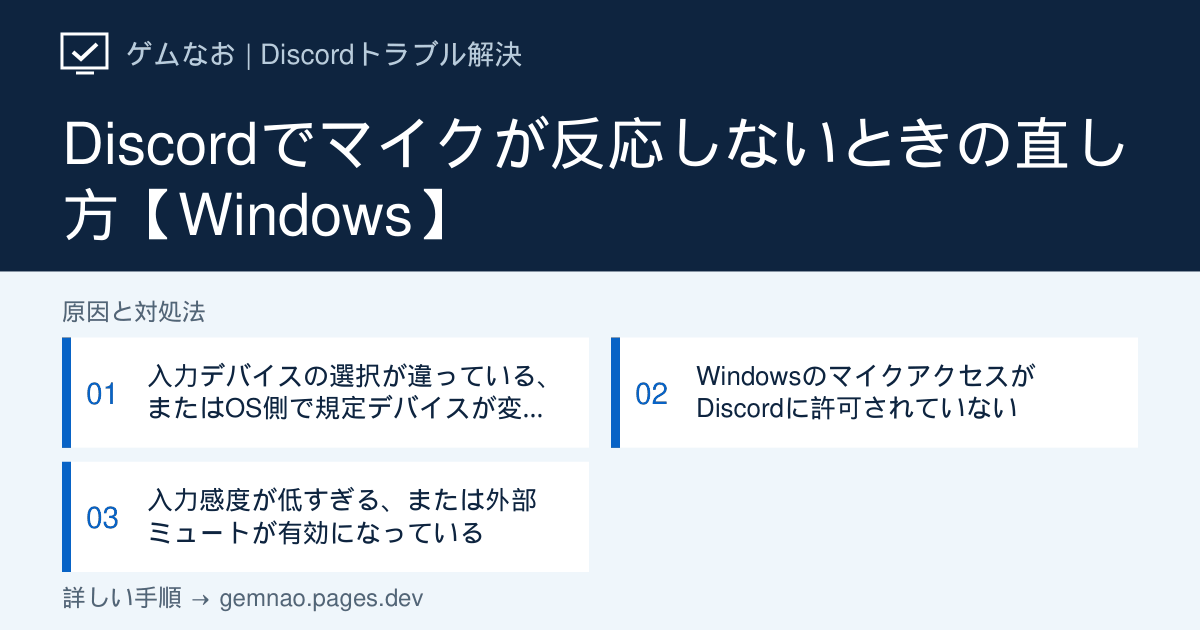
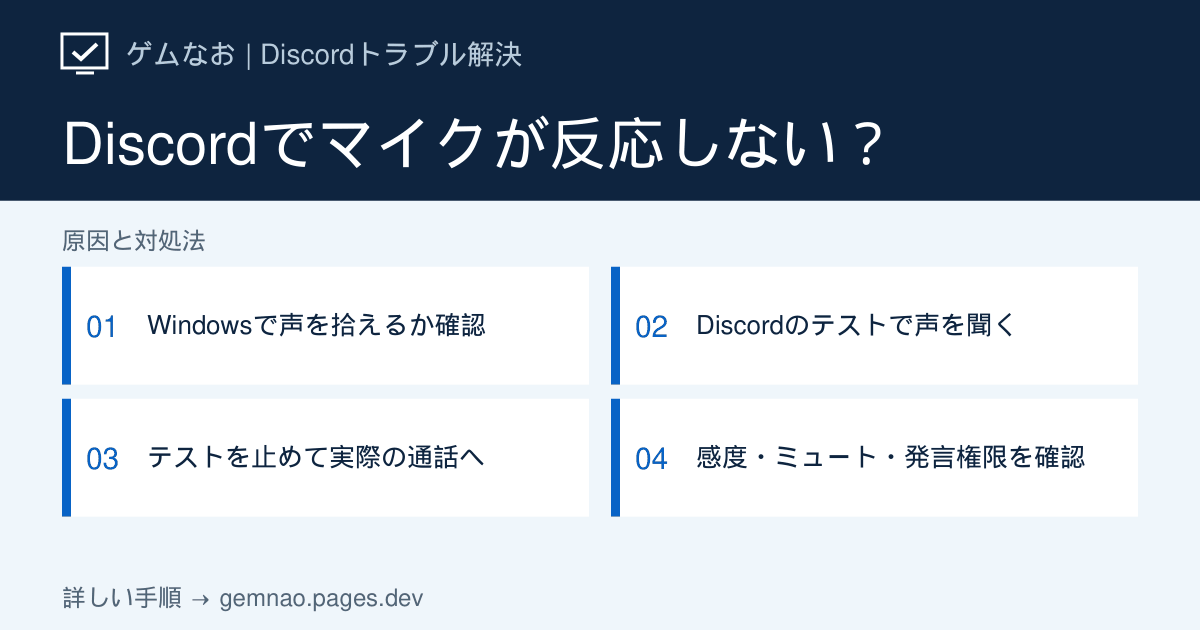
Improve Discord microphone guide with Windows tests and call diagnosis

diff --git a/lib/discord-articles.ts b/lib/discord-articles.ts
@@ -204,75 +204,102 @@ const existingDiscordArticles: DiscordArticle[] = [
   {
     slug: 'mic-not-working',
     category: 'audio',
-    title: 'Discordでマイクが反応しないときの直し方【Windows】',
+    title: 'Discordでマイクが反応しない・声が届かない時の直し方【Windows】',
     shortTitle: 'マイクが反応しない',
-    seoTitle: 'Discordでマイクが反応しないときの直し方【Windows】',
-    metaDescription:
-      'Discordで自分の声が相手に届かない、マイクテストで反応しない時の対処法です。入力デバイスの選び直し、Windowsのマイク権限、入力感度を順に確認します。',
-    symptom:
-      '通話中に「聞こえない」と言われる、設定画面のマイクテストでバーが反応しない、マイクアイコンにミュート表示がないのに声が届かない場合の手順です。',
-    target: 'Windows版 Discordデスクトップアプリ',
-    conclusion:
-      '「音声・ビデオ」設定で入力デバイスを選び直してマイクテストを行い、次にWindowsのマイクアクセス許可、最後に入力感度とミュート状態を確認します。',
+    seoTitle: 'Discordでマイクが反応しない・声が届かない原因と対処法',
+    metaDescription: 'Windowsの入力テスト・Discordのマイクテスト・実際の通話を比べ、声が届かない原因を判定。入力デバイス、マイク権限、入力感度、プッシュトゥトーク、サーバーミュートを具体的な操作と確認結果で解説します。',
+    symptom: 'Discordでマイクが反応しない、マイクテストでは声が返るのに相手に届かない、特定サーバーやゲーム中だけ話せない場合の確認手順です。',
+    target: 'Windows 11／10版Discordデスクトップアプリ。ブラウザ版との比較も掲載',
+    conclusion: 'Windowsの入力テスト→Discordのマイクテスト→実際の通話の順に、同じマイクで確認します。Windowsでも反応しなければ接続・機器・権限、Discordだけ無反応なら入力デバイス、テストは成功するなら入力モード・ミュート・発言権限を確認します。マイクテストは停止してから通話へ戻ってください。',
     quickFixes: [
-      'ユーザー設定の「音声・ビデオ」で入力デバイスを選び直し、マイクテストで反応を確認する',
-      'Windowsの設定でDiscordのマイクアクセスが許可されているか確認する',
-      'Discordを完全に終了し、ヘッドセットを挿し直してから再起動する',
+      'マイク本体のミュートを解除し、Windowsのサウンド設定で声に反応するか確認する',
+      'Discordの「音声・ビデオ」で同じマイクを名前で選び、マイクテストで自分の声を聞く',
+      'テストを停止して通話へ戻り、相手に同じ短い文を聞いてもらう',
+    ],
+    diagnosisTitle: 'どこまで声が届く？ Windows・Discord・通話の判定表',
+    diagnosisIntro: '比較中は同じマイク・口との距離・短い文を使います。例として「マイクの確認です。1、2、3」と話し、設定を1つ変えるごとに再確認してください。表示バーが動くことと、相手が声を聞けることは別の確認です。',
+    showStatusCheck: false,
+    diagnosis: [
+      { symptom: 'Windowsの入力一覧にマイクがない／話しても反応しない', check: '接続と本体ミュート、選択した入力機器を確認。別ポート・別マイクで比較', causeIndex: 1 },
+      { symptom: 'Windowsでは入力あり、Discordだけ無反応', check: 'デスクトップアプリのマイク許可と、Discordで選んだ入力機器を確認', causeIndex: 2 },
+      { symptom: 'Discordのバーは動くがテストの声が聞こえない', check: 'テスト音声の出力先も確認。マイク故障と決めつけない', causeIndex: 2 },
+      { symptom: 'テストで声は返るが、通話相手には届かない', check: 'テストを停止し、自分のミュートと入力モードを確認', causeIndex: 3 },
+      { symptom: '小さな声や話し始めだけ届かない', check: '無言時と小声の入力レベルを比べ、感度の境界を調整', causeIndex: 3 },
+      { symptom: 'DM通話では話せるが、特定サーバーだけ無音', check: 'サーバーミュート・発言権限を管理者へ確認', causeIndex: 4 },
+      { symptom: '一人だけ自分の声が聞こえないと言う', check: '別の参加者にも確認し、その相手の個別音量・ミュートを調べる', causeIndex: 4 },
+      { symptom: 'ゲーム中だけプッシュトゥトークが効かない', check: 'Discordを手前にした時と比較。キー競合やゲームの権限を確認', causeIndex: 3 },
     ],
     causes: [
       {
-        title:
-          '入力デバイスの選択が違っている、またはOS側で規定デバイスが変わった',
-        description:
-          '別のマイクを接続したりWindows更新後に、Discordが選んでいる入力デバイスが実際に使いたい機器と違っていることがあります。',
+        title: 'Windowsで同じマイクに入力があるか確認する',
+        description: '最初にPCが声を受け取っているか調べます。Discordの設定を変える前に確認すると、調べる範囲を絞れます。',
         actions: [
-          'Discordの歯車アイコンからユーザー設定を開く',
-          '「音声・ビデオ」タブを開く',
-          '「入力デバイス」で使用中のマイクを選び直す',
-          '「マイクをテストする」ボタンを押し、話した時に入力レベルのバーが動くか確認する',
+          'ヘッドセット・マイク本体のミュートスイッチを解除する。USBや音声端子を挿し直し、着脱式のマイクも根元まで接続されているか確認する',
+          'Windows 11は「設定」→「システム」→「サウンド」→「入力」で使うマイクを選択する。「マイクのテスト」の開始を押し、短い文を話して停止する。録音サンプルの再生がある場合は声も確認する',
+          'Windows 10は「設定」→「システム」→「サウンド」→「入力」でマイクを選び、「マイクのテスト」のバーが話す時に動くか確認する',
+          '反応するなら機器名を控えてSTEP 2へ。無反応なら入力音量が0でないか確認し、USBハブを使っている場合はPCへの直挿し、可能なら別ポート・別マイクで比較する',
+          '一覧に機器がない場合は「オーディオ入力が見つからない」の関連記事へ。別マイクなら反応する場合は元の機器・接続側を、どちらも反応しない場合はSTEP 2の権限やメーカーのドライバー案内を確認する',
+        ],
+        note: 'Windowsでも無反応という結果だけでマイク故障とは断定できません。入力先の選択、ミュート、権限、接続も確認対象です。Bluetooth機器だけで起きる場合は、有線やUSBマイクとの比較が手掛かりになります。',
+      },
+      {
+        title: 'Windowsのマイク許可とDiscordの入出力をそろえる',
+        description: 'Windowsで反応したマイクをDiscordでも選びます。テストの再生が聞こえない場合は、入力だけでなく出力先も確認します。',
+        actions: [
+          'Windows 11は「設定」→「プライバシーとセキュリティ」→「マイク」、Windows 10は「設定」→「プライバシー」→「マイク」を開く',
+          '「マイクへのアクセス」と「デスクトップ アプリがマイクにアクセスできるようにする」をオンにする。通常のデスクトップ版Discordは、アプリ別スイッチの一覧に出ない場合がある',
+          'Discord左下の歯車→「音声・ビデオ」の音声設定を開く。「入力デバイス」はDefault任せにせず、STEP 1で反応したマイクを名前で選ぶ。入力音量が0でないことも確認する',
+          '「出力デバイス」に今使っているヘッドホンを指定し、「マイクテスト」の開始ボタンを押す。同じ文を話し、自分の声が返ってくるか確認する',
+          '入力表示だけ反応して再生が聞こえない場合は、ヘッドホンの音量や出力先を確認する。声が返るならテストを停止してSTEP 3へ。Windowsだけ成功するなら、設定変更後にDiscordを完全終了して開き直し、同じテストを行う',
+        ],
+        note: 'Discord公式によると、通話に参加したままマイクテストを行うと自動的にミュート・スピーカーミュートになります。テストを停止するまで通話相手と会話できません。テスト中に「届かない」と言われても、送信失敗とは判断しないでください。',
+      },
+      {
+        title: 'テストは成功する場合：ミュート・入力モード・感度を確認する',
+        description: '音声検出は話すと自動で送信し、プッシュトゥトークは指定キーを押している間に送信します。自動感度は入力モードそのものではなく、音声検出で使う調整機能です。',
+        actions: [
+          'マイクテストを停止し、通話に戻る。左下のマイク・ヘッドホンのアイコンに斜線がないか確認し、自分で設定したミュートを解除する',
+          '「音声・ビデオ」→「入力モード」を確認する。プッシュトゥトークなら、登録したキーを押したまま短い文を話す。キーを押した時だけ届けば、その動作は正常',
+          'キーを押さずに話したい場合は音声検出（Voice Activity）へ切り替える。自動感度で小声や語尾が切れる場合は、自動調整をオフにして手動で比べる',
+          '無言の時の入力レベルと、小さめの声で話した時の入力レベルを観察する。感度の境界を「無言の音は超えず、小声は超える」位置へ動かす。固定の数値を全員に当てはめない',
+          '例：無言の雑音が−60 dB付近、小声が−40 dB付近なら、境界を−50 dB付近から比較する。これは調整例であり推奨固定値ではない。実際の通話で語尾まで届くか相手に確認し、雑音も常時送られるなら調整し直す',
+          'ゲーム中だけキーが効かない場合は、Discordを手前にした時にも同じキーで話せるか比較する。ゲーム操作との重複を見直し、管理者権限のゲームでだけ起きる場合は「システムヘルパー」記事へ進む',
+        ],
+        note: '入力感度は「どの音から送信を始めるか」の境界で、声そのものを大きくする設定ではありません。声は届くが小さい場合は「マイク・声が小さい」、途中で切れる場合は「音声・マイクが途切れる」の記事を参照してください。',
+      },
+      {
+        title: '通話相手・サーバーを変え、権限と受信側を切り分ける',
+        description: '自分のテストが成功している場合、同じ設定のまま相手や通話先を変えて比べます。設定を何度もリセットする前に、届かない範囲を確かめてください。',
+        actions: [
+          '知人とのDM通話で短い文を話し、相手に聞こえるか確認する。次に問題のサーバーのボイスチャンネルで同じ文を話す',
+          'DMでは届くが特定チャンネルだけ届かない場合は、管理者にサーバーミュートの有無と、そのチャンネルで自分のロールに「発言」の権限があるかを確認してもらう。参加できることと発言できることは別',
+          '一人だけ聞こえない場合は、可能ならもう一人にも確認する。他の人には届くなら、聞こえない相手に自分のユーザーを右クリックして個別ミュート・ユーザー音量を確認してもらう',
+          '全員に届かず、接続中のままになる・通話から退出する場合は、入力感度ではなく接続側も確認する。RTC接続中などの表示を控え、対応する関連記事へ進む',
         ],
       },
       {
-        title: 'WindowsのマイクアクセスがDiscordに許可されていない',
-        description:
-          'Windowsのプライバシー設定でマイクへのアクセスがオフになっていると、Discord側の設定は正しくても音が届きません。',
+        title: 'アプリだけ改善しない場合はブラウザ比較と音声設定のリセットへ',
+        description: 'ここまでの設定を確認してもアプリだけで失敗する場合の手順です。変更前の設定を控え、結果が変わったかを同じマイクで確認します。',
         actions: [
-          'Windowsの「設定」を開く',
-          '「プライバシーとセキュリティ」→「マイク」を開く',
-          '「マイクへのアクセス」がオンになっているか確認する',
-          '「デスクトップ アプリがマイクにアクセスできるようにする」をオンにする。デスクトップ版Discordは個別の許可一覧に出ない場合がある',
-          'Discordを再起動して反映させる',
-        ],
-      },
-      {
-        title: '入力感度が低すぎる、または外部ミュートが有効になっている',
-        description:
-          '入力モードが「感度に応じて自動的に判定」になっている場合、感度が低いと声を拾いません。ヘッドセット側の物理ミュートスイッチも見落としやすい原因です。',
-        actions: [
-          '「音声・ビデオ」の「入力モード」を確認する（自動感度／プッシュトゥトーク）',
-          '自動感度の場合は「自動的に感度を決定する」をオフにし、スライダーを手動で調整する',
-          'ヘッドセットやマイク本体に物理ミュートボタンがないか確認する',
-          '画面下部のマイクアイコンがミュートになっていないか確認する',
+          'アプリの通話を終了し、ブラウザでdiscord.com/appを開く。マイクの利用を許可し、同じ入力機器でマイクテストと短い通話を行う',
+          'ブラウザ版だけ成功する場合は、アプリの入力・出力デバイス、入力モード、感度、キー割り当てをメモまたは画像で残す',
+          'アプリを開き直して更新を反映させる。それでも改善しない場合は「音声・ビデオ」のデバッグ項目などにある音声・ビデオ設定のリセットを実行する。配置や表記はバージョンにより異なる',
+          'リセット後にマイクと出力機器を選び直し、まずテスト、その後テストを停止して実際の通話を確認する。改善しない場合は、元の設定をメモから戻し、比較結果をサポートへ伝える',
         ],
       },
     ],
-    ifNotFixed:
-      'ボイスレコーダーなど他のアプリでもマイクが反応しない場合は、Discordではなくマイク本体・ドライバー・OS側の問題です。Windowsのサウンド設定でマイクの音量とドライバーの状態を確認してください。Discord側だけの問題と分かっている場合は、「音声・ビデオ」設定の下部から音声設定をリセットし、再度デバイスを選び直してください。',
+    ifNotFixed: '相談時は「マイクの製品名・接続方法／Windows入力テスト／Discordテストの再生／DM通話／サーバー通話／ブラウザ版」の結果を○・×で整理します。例：Windows○、Discordテスト○、DM○、特定サーバー×なら、管理者へ発言権限を確認する材料になります。音声そのものやDM本文を公開する必要はありません。Windowsでも入力がない場合はPC・機器メーカー、Discordだけで再現する場合はDiscordサポートへ結果を伝えてください。',
     faqs: [
-      {
-        question: 'マイクテストのバーは動くのに、通話中だけ声が届きません',
-        answer:
-          '通話中の入力デバイスが設定画面と異なる可能性があります。通話に参加した状態で改めて「音声・ビデオ」設定を開き、入力デバイスの選択を確認してください。サーバー側でミュートにされていないかも確認してください。',
-      },
-      {
-        question: 'Bluetoothヘッドセットだけ反応しません',
-        answer:
-          'Bluetooth機器は通話用プロファイルへの切り替えが必要な場合があります。Windowsのサウンド設定でマイクとして認識されているか確認し、それでも反応しない場合は有線接続やUSBマイクで切り分けてください。',
-      },
+      { question: 'マイクテストでは聞こえるのに、相手に声が届きません', answer: 'まずテストを停止してください。テスト中は通話が自動的にミュートされます。停止後も届かなければ入力モードとミュートを確認し、DMとサーバー通話で違うか比較します。' },
+      { question: '緑の反応が出れば、相手にも聞こえていますか？', answer: '反応表示だけでは、相手の出力機器や個別音量まで確認できません。実際に短い文を話し、相手に内容を聞き取れたか確認してもらってください。' },
+      { question: 'Windowsのマイク許可一覧にDiscordがありません', answer: 'デスクトップ版ではアプリごとの許可スイッチが出ない場合があります。「デスクトップ アプリがマイクにアクセスできるようにする」を確認します。ブラウザ版はブラウザ側のサイトへのマイク許可も必要です。' },
+      { question: '入力感度は何dBにすればよいですか？', answer: 'マイクや距離、周囲の雑音で変わります。無言時の音は送らず、小さめの声は送れる境界を探します。感度を変えても声の音量自体を増やすことはできません。' },
     ],
-    sources: [voiceVideoGuide, micTesting, audioInputGone],
-    related: ['audio-input-not-found', 'error-1002', 'error-1003'],
-    checkedAt: '2026-09-23',
+    sources: [voiceVideoGuide, micTesting, support('211376518-Voice-Input-Modes-101-Push-to-Talk-Voice-Activated', '音声入力モードと入力感度（英語）'), { label: 'Microsoftサポート：マイクの問題を解決する', url: 'https://support.microsoft.com/ja-jp/windows/hardware/drivers/fix-microphone-problems' }],
+    related: ['audio-input-not-found', 'mic-volume-low', 'voice-cutting-out', 'cant-hear-voice', 'system-helper', 'rtc-connecting'],
+    ogTitle: 'Discordでマイクが反応しない？',
+    ogSteps: ['Windowsで声を拾えるか確認', 'Discordのテストで声を聞く', 'テストを止めて実際の通話へ', '感度・ミュート・発言権限を確認'],
+    checkedAt: '2026-09-28',
     status: 'verified',
   },
   {

diff --git a/lib/og-image-manifest.ts b/lib/og-image-manifest.ts
@@ -18,7 +18,7 @@ export const ogImageManifest: Record<string, string> = {
   "/discord/installation-failed": "f0058f33",
   "/discord/loading-stuck": "c18e0bfc",
   "/discord/login-error": "9a75aebd",
-  "/discord/mic-not-working": "230d5d46",
+  "/discord/mic-not-working": "56b12974",
   "/discord/mic-volume-low": "148725ee",
   "/discord/no-route": "7419f17d",
   "/discord/not-opening": "27fdd405",
